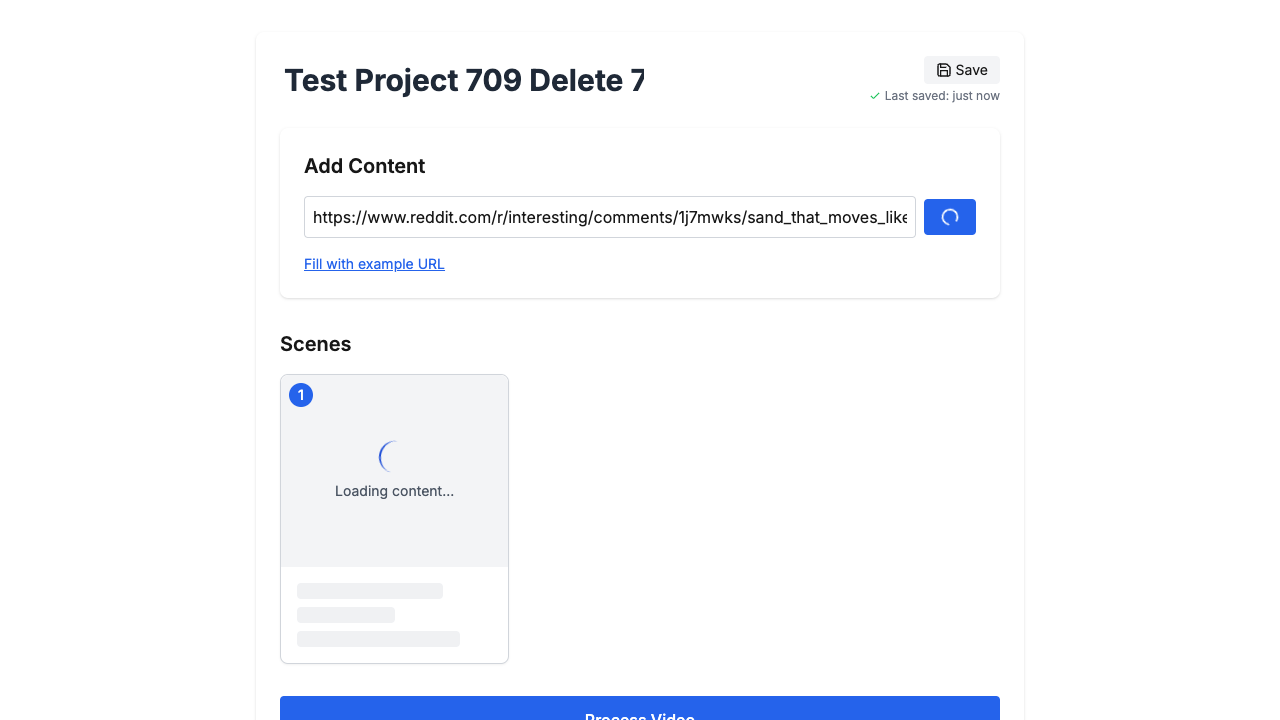
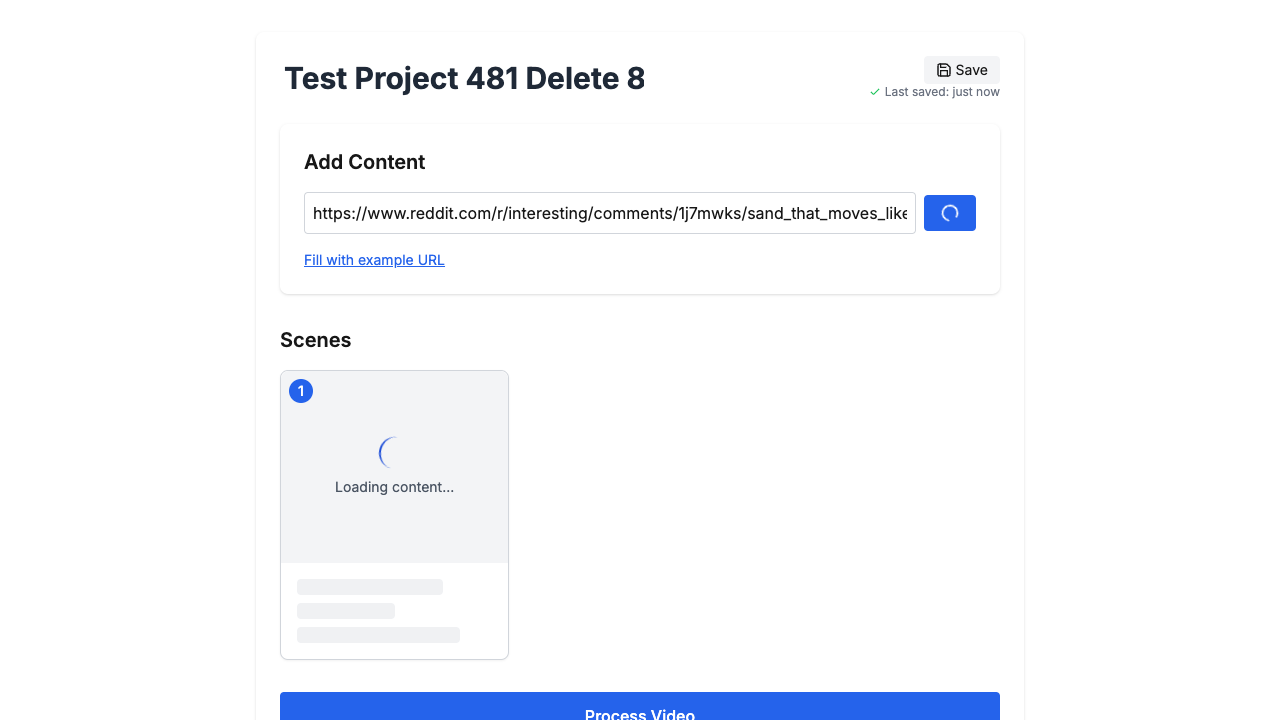
feat: add save status indicator and improve e2e test robustness
- Created new SaveStatusIndicator component to handle saving state display
- Added data-testid attributes to scene number and save status for improved test targeting
- Enhanced e2e tests with more robust error handling and logging
- Increased navigation and content load timeouts for more stable testing

this is for existing project test

- Added comprehensive debugging screenshots and logging in test scenarios
- Implemented additional checks for project state and scene visibility in tests

diff --git a/web/frontend/playwright-report/index.html b/web/frontend/playwright-report/index.html
@@ -68,4 +68,4 @@ Error generating stack: `+u.message+`
   </body>
 </html>
 <script>
[2 lines of base64/hex data omitted]

diff --git a/web/frontend/tests/e2e/core-functionality.spec.ts b/web/frontend/tests/e2e/core-functionality.spec.ts
@@ -6,7 +6,7 @@ const TEST_REDDIT_PHOTO_URL = 'https://www.reddit.com/r/mildlyinteresting/commen
 const TEST_REDDIT_VIDEO_URL = 'https://www.reddit.com/r/interesting/comments/1j7mwks/sand_that_moves_like_water_in_the_desert/';
 
 // Constants
-const NAVIGATION_TIMEOUT = 5000; // 5 seconds
+const NAVIGATION_TIMEOUT = 30000; // 30 seconds
 const PAGE_LOAD_TIMEOUT = 10000;  // 10 seconds
 const CONTENT_LOAD_TIMEOUT = 20000; // 20 seconds
 const CRITICAL_STEP_TIMEOUT = 30000; // 30 seconds
@@ -210,9 +210,9 @@ test.describe('Auto Shorts Core Functionality', () => {
     const pageContent = await page.content();
     console.log('Project workspace page contains project name:', pageContent.includes(TEST_PROJECT_NAME));
     
-    // Rest of the test continues as before
-    // ...
-
+    // Wait for save operation to complete
+    await page.waitForSelector('[data-testid="save-status-saved"]', { state: 'visible' });
+    
     console.log('Project creation test completed');
   });
   
@@ -252,39 +252,40 @@ test.describe('Auto Shorts Core Functionality', () => {
     console.log('Finding Add button...');
     const addButton = page.getByRole('button', { name: 'Add' });
     await expect(addButton).toBeVisible({ timeout: PAGE_LOAD_TIMEOUT });
-    await addButton.click();
-    console.log('Clicked Add button for first scene');
     
-    // Wait for loading process to complete
-    console.log('Waiting for content to load...');
-    const loadingIndicator = page.locator('.loading-indicator');
-    
+    // Add error handling around scene addition
     try {
-      await expect(loadingIndicator).toBeVisible({ timeout: 5000 });
-      console.log('Loading indicator appeared');
-    } catch (e) {
-      console.log('Loading indicator didn\'t appear or disappeared very quickly');
-    }
-    
-    // Enhanced debugging - log the page content after first scene addition
-    if (DEBUG) {
-      console.log('Looking for first scene after adding...');
+      await addButton.click();
+      console.log('Clicked Add button for first scene');
       
-      // Log what's visible on the page
-      const pageContent = await page.content();
-      console.log('Page content available after first scene addition:', 
-        pageContent.includes('Scenes') ? 'Scenes heading found' : 'No Scenes heading',
-        pageContent.includes('1') ? 'Number 1 found' : 'No number 1',
-        pageContent.includes(TEST_REDDIT_PHOTO_URL) ? 'Photo URL found' : 'No photo URL'
-      );
+      // Wait for save status to indicate completion
+      await page.waitForSelector('[data-testid="save-status-saved"]', { 
+        state: 'visible',
+        timeout: CONTENT_LOAD_TIMEOUT 
+      });
+      console.log('Save status indicates success');
       
-      // Try to find the scenes section
-      const scenesHeadingExists = await page.getByText(SCENES_HEADING).isVisible();
-      console.log(`"${SCENES_HEADING}" heading exists: ${scenesHeadingExists}`);
+      // Verify scene was added to project data
+      const projectData = await page.evaluate(() => {
+        // @ts-ignore - Accessing window.__NEXT_DATA__ for debugging
+        return window.__NEXT_DATA__?.props?.pageProps?.project;
+      });
+      console.log('Project data after scene add:', 
+        projectData ? `Found (${projectData.scenes?.length} scenes)` : 'Not found');
       
-      // Look for elements with a numbered circle
-      const blueNumberElements = await page.getByText('1').count();
-      console.log(`Found ${blueNumberElements} elements with text "1"`);
+      // Take screenshot of current state
+      await page.screenshot({ path: 'debug-after-scene-add.png' });
+      
+      // Check for scene element with more specific selector
+      const sceneElement = page.locator('.bg-blue-600:has-text("1")');
+      await expect(sceneElement).toBeVisible({ timeout: PAGE_LOAD_TIMEOUT });
+      console.log('Scene element is visible');
+      
+    } catch (error) {
+      console.error('Failed to add scene:', error);
+      // Take error state screenshot
+      await page.screenshot({ path: 'debug-scene-add-error.png' });
+      throw error;
     }
     
     // Wait for scenes section to appear
@@ -403,18 +404,10 @@ test.describe('Auto Shorts Core Functionality', () => {
     await page.waitForSelector('input[placeholder="Enter Reddit URL"]', { timeout: CRITICAL_STEP_TIMEOUT });
     console.log('Reddit URL input is visible, workspace is ready');
     
-    // Add a scene - Video post
-    console.log('Adding scene for deletion...');
-    const urlInput = page.getByPlaceholder('Enter Reddit URL');
-    await expect(urlInput).toBeVisible({ timeout: PAGE_LOAD_TIMEOUT });
-    await urlInput.fill(TEST_REDDIT_VIDEO_URL);
-    
-    // Find and click the "Add" button
-    console.log('Finding Add button...');
-    const addButton = page.getByRole('button', { name: 'Add' });
-    await expect(addButton).toBeVisible({ timeout: PAGE_LOAD_TIMEOUT });
-    await addButton.click();
-    console.log('Clicked Add button');
+    // Add a scene
+    await page.getByPlaceholder('Enter Reddit URL').fill(TEST_REDDIT_VIDEO_URL);
+    await page.getByRole('button', { name: 'Add' }).click();
+    console.log('Added scene with URL:', TEST_REDDIT_VIDEO_URL);
     
     // Wait for scene to appear - look for Scenes heading and blue number 1
     console.log('Waiting for Scenes section to appear...');
@@ -653,5 +646,114 @@ test.describe('Auto Shorts Core Functionality', () => {
     await page.getByRole('button', { name: 'Delete' }).click();
     
     console.log('Scene deletion test completed');
+  });
+
+  test('Existing project functionality', async ({ page }) => {
+    console.log('Starting existing project test...');
+
+    // Navigate to project creation page
+    await page.goto('/projects/create');
+    console.log('Navigated to project creation page');
+
+    // Create a new project
+    const projectName = 'Test Project 245 Existing';
+    await page.getByPlaceholder('Enter project name').fill(projectName);
+    await page.getByRole('button', { name: 'Create Project' }).click();
+    console.log('Created new project:', projectName);
+
+    // Add a scene
+    await page.getByPlaceholder('Enter Reddit URL').fill(TEST_REDDIT_VIDEO_URL);
+    await page.getByRole('button', { name: 'Add' }).click();
+    console.log('Added scene with URL:', TEST_REDDIT_VIDEO_URL);
+
+    // Wait for save status to indicate completion
+    await page.waitForSelector('[data-testid="save-status-saved"]', { 
+      state: 'visible',
+      timeout: CONTENT_LOAD_TIMEOUT 
+    });
+    console.log('Save status indicates success');
+
+    // Get project ID from URL
+    const url = page.url();
+    const projectId = url.split('/').pop();
+    console.log('Project ID from URL:', projectId);
+
+    // Check localStorage before navigating away
+    const projectDataBefore = await page.evaluate((id) => {
+      const key = `auto-shorts-project-${id}`;
+      const data = localStorage.getItem(key);
+      return {
+        key,
+        data: data ? JSON.parse(data) : null,
+        allKeys: Object.keys(localStorage)
+      };
+    }, projectId);
+    console.log('Project data before navigation:', JSON.stringify(projectDataBefore, null, 2));
+
+    // Navigate to home page
+    await page.goto('/');
+    console.log('Navigated to home page');
+
+    // Navigate to projects list
+    await page.getByRole('link', { name: 'My Projects' }).click();
+    console.log('Clicked My Projects link');
+
+    // Check localStorage after navigation
+    const projectDataAfter = await page.evaluate((id) => {
+      const key = `auto-shorts-project-${id}`;
+      const data = localStorage.getItem(key);
+      return {
+        key,
+        data: data ? JSON.parse(data) : null,
+        allKeys: Object.keys(localStorage)
+      };
+    }, projectId);
+    console.log('Project data after navigation:', JSON.stringify(projectDataAfter, null, 2));
+
+    // Find and click the project
+    await page.getByRole('link', { name: projectName }).click();
+    console.log('Clicked on project:', projectName);
+
+    // Take screenshot before visibility check
+    await page.screenshot({ path: 'debug-before-visibility-check.png' });
+
+    // Check localStorage after clicking project
+    const projectDataFinal = await page.evaluate((id) => {
+      const key = `auto-shorts-project-${id}`;
+      const data = localStorage.getItem(key);
+      return {
+        key,
+        data: data ? JSON.parse(data) : null,
+        allKeys: Object.keys(localStorage)
+      };
+    }, projectId);
+    console.log('Project data after clicking project:', JSON.stringify(projectDataFinal, null, 2));
+
+    // Wait for project workspace to load
+    await page.waitForSelector('.bg-blue-600:has-text("1")', { timeout: NAVIGATION_TIMEOUT });
+    console.log('Scene number 1 is visible');
+
+    // Log the current DOM state
+    const pageContent = await page.evaluate(() => {
+      return {
+        sceneElements: document.querySelectorAll('[data-testid^="scene-"]').length,
+        workspaceContent: document.querySelector('[data-testid="project-workspace"]')?.innerHTML,
+        bodyContent: document.body.innerHTML
+      };
+    });
+    console.log('DOM state:', {
+      sceneElementsFound: pageContent.sceneElements,
+      hasWorkspaceContent: !!pageContent.workspaceContent,
+      bodyContentLength: pageContent.bodyContent.length
+    });
+
+    // Wait for scene to be visible with increased timeout
+    await expect(page.locator('[data-testid="scene-number-1"]')).toBeVisible({ timeout: CONTENT_LOAD_TIMEOUT });
+    console.log('Scene is now visible');
+
+    // Take screenshot after visibility check
+    await page.screenshot({ path: 'debug-after-visibility-check.png' });
+
+    console.log('Existing project test completed successfully');
   });
 }); 

diff --git a/web/frontend/src/components/project/ProjectWorkspace.tsx b/web/frontend/src/components/project/ProjectWorkspace.tsx
@@ -28,6 +28,7 @@ import ErrorDisplay from '../ErrorDisplay';
 import { DragDropContext, Droppable, Draggable, DropResult } from '@hello-pangea/dnd';
 import { processVideoWithCustomization, processVideoFast } from '@/lib/project-utils';
 import { getProject } from '@/lib/storage-utils';
+import SaveStatusIndicator from './SaveStatusIndicator';
 
 interface ProjectWorkspaceProps {
   projectId?: string;
@@ -490,21 +491,7 @@ export default function ProjectWorkspace({
               <SaveIcon className="h-4 w-4 mr-1" />
               Save
             </button>
-            {lastSaved && (
-              <div className="text-xs text-gray-500 mt-1 flex items-center">
-                {isSaving ? (
-                  <>
-                    <LoaderIcon className="inline-block h-3 w-3 mr-1 animate-spin" />
-                    Saving...
-                  </>
-                ) : (
-                  <>
-                    <CheckIcon className="inline-block h-3 w-3 mr-1 text-green-500" />
-                    Last saved: {formatSavedTime()}
-                  </>
-                )}
-              </div>
-            )}
+            <SaveStatusIndicator isSaving={isSaving} lastSaved={lastSaved} />
           </div>
         </div>
 

diff --git a/web/frontend/src/components/project/SaveStatusIndicator.tsx b/web/frontend/src/components/project/SaveStatusIndicator.tsx
@@ -1,0 +1,41 @@
+import React from 'react';
+import { CheckIcon, LoaderIcon } from 'lucide-react';
+
+interface SaveStatusIndicatorProps {
+  isSaving: boolean;
+  lastSaved: number | null;
+}
+
+export default function SaveStatusIndicator({ isSaving, lastSaved }: SaveStatusIndicatorProps) {
+  const formatSavedTime = () => {
+    if (!lastSaved) return '';
+    
+    const now = Date.now();
+    const diff = now - lastSaved;
+    
+    if (diff < 1000) return 'just now';
+    if (diff < 60000) return `${Math.floor(diff / 1000)}s ago`;
+    if (diff < 3600000) return `${Math.floor(diff / 60000)}m ago`;
+    return `${Math.floor(diff / 3600000)}h ago`;
+  };
+
+  if (isSaving) {
+    return (
+      <div data-testid="save-status-saving" className="text-xs text-gray-500 flex items-center">
+        <LoaderIcon className="inline-block h-3 w-3 mr-1 animate-spin" />
+        Saving...
+      </div>
+    );
+  }
+
+  if (lastSaved) {
+    return (
+      <div data-testid="save-status-saved" className="text-xs text-gray-500 flex items-center">
+        <CheckIcon className="inline-block h-3 w-3 mr-1 text-green-500" />
+        Last saved: {formatSavedTime()}
+      </div>
+    );
+  }
+
+  return null;
+} 

diff --git a/web/frontend/next.config.js b/web/frontend/next.config.js
@@ -16,19 +16,19 @@ const nextConfig = {
     return [
       {
         source: '/api/preview',
-        destination: 'http://localhost:8001/api/v1/content/preview',
+        destination: 'http://localhost:8000/api/v1/content/preview',
       },
       {
         source: '/api/projects/:projectId/process',
-        destination: 'http://localhost:8001/api/v1/projects/:projectId/process',
+        destination: 'http://localhost:8000/api/v1/projects/:projectId/process',
       },
       {
         source: '/api/:path*',
-        destination: 'http://localhost:8001/api/v1/:path*',
+        destination: 'http://localhost:8000/api/v1/:path*',
       },
       {
         source: '/health',
-        destination: 'http://localhost:8001/api/v1/health',
+        destination: 'http://localhost:8000/api/v1/health',
       },
     ];
   },

diff --git a/web/frontend/src/components/project/SceneComponent.tsx b/web/frontend/src/components/project/SceneComponent.tsx
@@ -278,7 +278,10 @@ export const SceneComponent: React.FC<SceneComponentProps> = memo(function Scene
       }}
     >
       {/* Scene number indicator */}
-      <div className="absolute top-2 left-2 bg-blue-600 text-white rounded-full w-6 h-6 flex items-center justify-center text-sm font-medium z-10">
+      <div 
+        data-testid={`scene-number-${index + 1}`}
+        className="absolute top-2 left-2 bg-blue-600 text-white rounded-full w-6 h-6 flex items-center justify-center text-sm font-medium z-10"
+      >
         {index + 1}
       </div>
 
